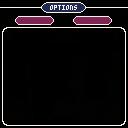
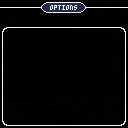
save

Changed region(s): [[0.0938, 0.125, 0.4375, 0.2188], [0.5625, 0.125, 0.875, 0.2188]]

diff --git a/CSharpCraft/Options.cs b/CSharpCraft/Options.cs
@@ -15,7 +15,7 @@ namespace CSharpCraft
 
         public string GameModeName { get => "options"; }
 
-        List<FieldInfo> keys = [];
+        OptionsFile keys;
         private bool menuSelectedX;
         private int menuSelectedY;
         private int currentMenuOption;
@@ -66,8 +66,7 @@ namespace CSharpCraft
 
         public void Init()
         {
-            //keys = [];
-            //keys = optionsFile.GetAllFields();
+            keys = optionsFile;
 
             //menuSelectedX = false;
             //menuSelectedY = 0;
@@ -103,44 +102,41 @@ namespace CSharpCraft
             batch.Draw(textureDictionary["OptionsMenuBackground"], new Vector2(0, 0), null, Color.White, 0, Vector2.Zero, size, SpriteEffects.None, 0);
             batch.Draw(textureDictionary["Arrow"], new Vector2(0 * cellW, 1 * cellH), null, p8.colors[currentMenuOption == 0 ? 7 : 5], 0, Vector2.Zero, size, SpriteEffects.None, 0);
             p8.Print("back", 5, 1, currentMenuOption == 0 ? 7 : 5);
-            //batch.Draw(textureDictionary["OptionsMenuTab"], new Vector2(15 * cellW, 22 * cellH), null, Color.White, 0, Vector2.Zero, size, SpriteEffects.None, 0);
 
-            //batch.Draw(textureDictionary["SelectorHalf"], new Vector2(16 * cellW, 31 * cellH), null, Color.White, 0, Vector2.Zero, size, SpriteEffects.None, 0);
-            //batch.Draw(textureDictionary["SelectorHalf"], new Vector2(31 * cellW, 31 * cellH), null, Color.White, 0, Vector2.Zero, size, SpriteEffects.FlipHorizontally, 0);
-
-            //p8.Print("controls", 19, 19, 7);
-            //p8.Print("graphics", 77, 18, 7);
-            //p8.Print("keyboard", 19, 33, 7);
-            //p8.Print("controller", 73, 33, 7);
+            for (int i = 0; i <= 1; i++)
+            {
+                var position2 = new Vector2((15 + (58 * i)) * cellW, 16 * cellH);
+                var position3 = new Vector2((16 + (58 * i)) * cellW, 17 * cellH);
+                batch.Draw(textureDictionary["SelectorBorder"], position2, null, p8.colors[7], 0, Vector2.Zero, size, SpriteEffects.None, 0);
+                batch.Draw(textureDictionary["SelectorCenter"], position3, null, p8.colors[currentMenuOption == 1 ? 2 : 0], 0, Vector2.Zero, size, SpriteEffects.None, 0);
+            }
 
             var position = new Vector2((15 + Math.Abs(58 * menuOptions[1])) * cellW, 22 * cellH);
             batch.Draw(textureDictionary["OptionsMenuTab"], position, null, Color.White, 0, Vector2.Zero, size, SpriteEffects.None, 0);
-            
+
+            p8.Rectfill(15 + Math.Abs(58 * menuOptions[1]), 22, 53 + Math.Abs(58 * menuOptions[1]), 27, 7);
+            p8.Rectfill(16 + Math.Abs(58 * menuOptions[1]), 22, 52 + Math.Abs(58 * menuOptions[1]), 27, currentMenuOption == 1 ? 2 : 0);
+
             for (int i = 0; i <= 1; i++)
             {
                 p8.Print(options.Keys.ElementAt(i), 19 + 58 * i, 19 - Math.Abs(i + menuOptions[1]), 7);
             }
 
-            //if (currentMenuOption == 1)
-            //{
-            //    if (menuOptions[1] == 0)
-            //    {
-            //        batch.Draw(textureDictionary["KeybindsMenu"], new Vector2(8 * cellW, 46 * cellH), null, Color.White, 0, Vector2.Zero, size, SpriteEffects.None, 0);
-            //        batch.Draw(textureDictionary["SelectorHalf"], new Vector2(16 * cellW, 31 * cellH), null, Color.White, 0, Vector2.Zero, size, SpriteEffects.None, 0);
-            //        batch.Draw(textureDictionary["SelectorHalf"], new Vector2(31 * cellW, 31 * cellH), null, Color.White, 0, Vector2.Zero, size, SpriteEffects.FlipHorizontally, 0);
-            //
-            //        for (int i = 0; i <= 1; i++)
-            //        {
-            //            p8.Print(controlsOptions.Keys.ElementAt(i), 19 + 54 * i, 33, 7);
-            //        }
-            //    }
-            //}
-            
+            if (currentMenuOption < 2)
+            {
+                p8.Rectfill(6, 27, 6 + 115, 27, 7);
+            }
+
+
             if (currentMenuOption == 2)
             {
                 if (menuOptions[2] == 0)
                 {
-                    //p8.Rectfill(17, 32, 51, 38, 13);
+                    p8.Rectfill(17, 32, 51, 38, 13);
+                }
+                else if (menuOptions[2] == -1)
+                {
+                    p8.Rectfill(71, 32, 113, 38, 13);
                 }
             }
             if (menuOptions[1] == 0)

diff --git a/CSharpCraft/OptionsFile.cs b/CSharpCraft/OptionsFile.cs
@@ -9,7 +9,7 @@ namespace CSharpCraft
         public string Right { get; set; } = "Right";
         public string Up { get; set; } = "Up";
         public string Down { get; set; } = "Down";
-        public string Interact { get; set; } = "X";
+        public string Use { get; set; } = "X";
         public string Menu { get; set; } = "Z";
         public string Pause { get; set; } = "Enter";
         
@@ -49,20 +49,13 @@ namespace CSharpCraft
 
     public class KeyboardOptions
     {
-        public string Left1 { get; set; } = "Left";
-        public string Left2 { get; set; } = "NumPad4";
-        public string Right1 { get; set; } = "Right";
-        public string Right2 { get; set; } = "NumPad6";
-        public string Up1 { get; set; } = "Up";
-        public string Up2 { get; set; } = "NumPad8";
-        public string Down1 { get; set; } = "Down";
-        public string Down2 { get; set; } = "NumPad5";
-        public string Interact1 { get; set; } = "X";
-        public string Interact2 { get; set; } = "V;";
-        public string Menu1 { get; set; } = "Z";
-        public string Menu2 { get; set; } = "C";
-        public string Pause1 { get; set; } = "Escape";
-        public string Pause2 { get; set; } = "Enter";
+        public (string, string) Left { get; set; } = ("Left", "NumPad4");
+        public (string, string) Right { get; set; } = ("Right", "NumPad6");
+        public (string, string) Up { get; set; } = ("Up", "NumPad8");
+        public (string, string) Down { get; set; } = ("Down", "NumPad5");
+        public (string, string) Use { get; set; } = ("X", "V");
+        public (string, string) Menu { get; set; } = ("Z", "C");
+        public (string, string) Pause { get; set; } = ("Escape", "Enter");
     }
 
     public class ControllerOptions

diff --git a/CSharpCraft/Pico8Functions.cs b/CSharpCraft/Pico8Functions.cs
@@ -129,7 +129,7 @@ namespace CSharpCraft
             if (i == 2) { return state.IsKeyDown((Keys)Enum.Parse(typeof(Keys), optionsFile.Up)); }
             if (i == 3) { return state.IsKeyDown((Keys)Enum.Parse(typeof(Keys), optionsFile.Down)); }
             if (i == 4) { return state.IsKeyDown((Keys)Enum.Parse(typeof(Keys), optionsFile.Menu)); }
-            if (i == 5) { return state.IsKeyDown((Keys)Enum.Parse(typeof(Keys), optionsFile.Interact)); }
+            if (i == 5) { return state.IsKeyDown((Keys)Enum.Parse(typeof(Keys), optionsFile.Use)); }
             else { return false; }
         }
 
